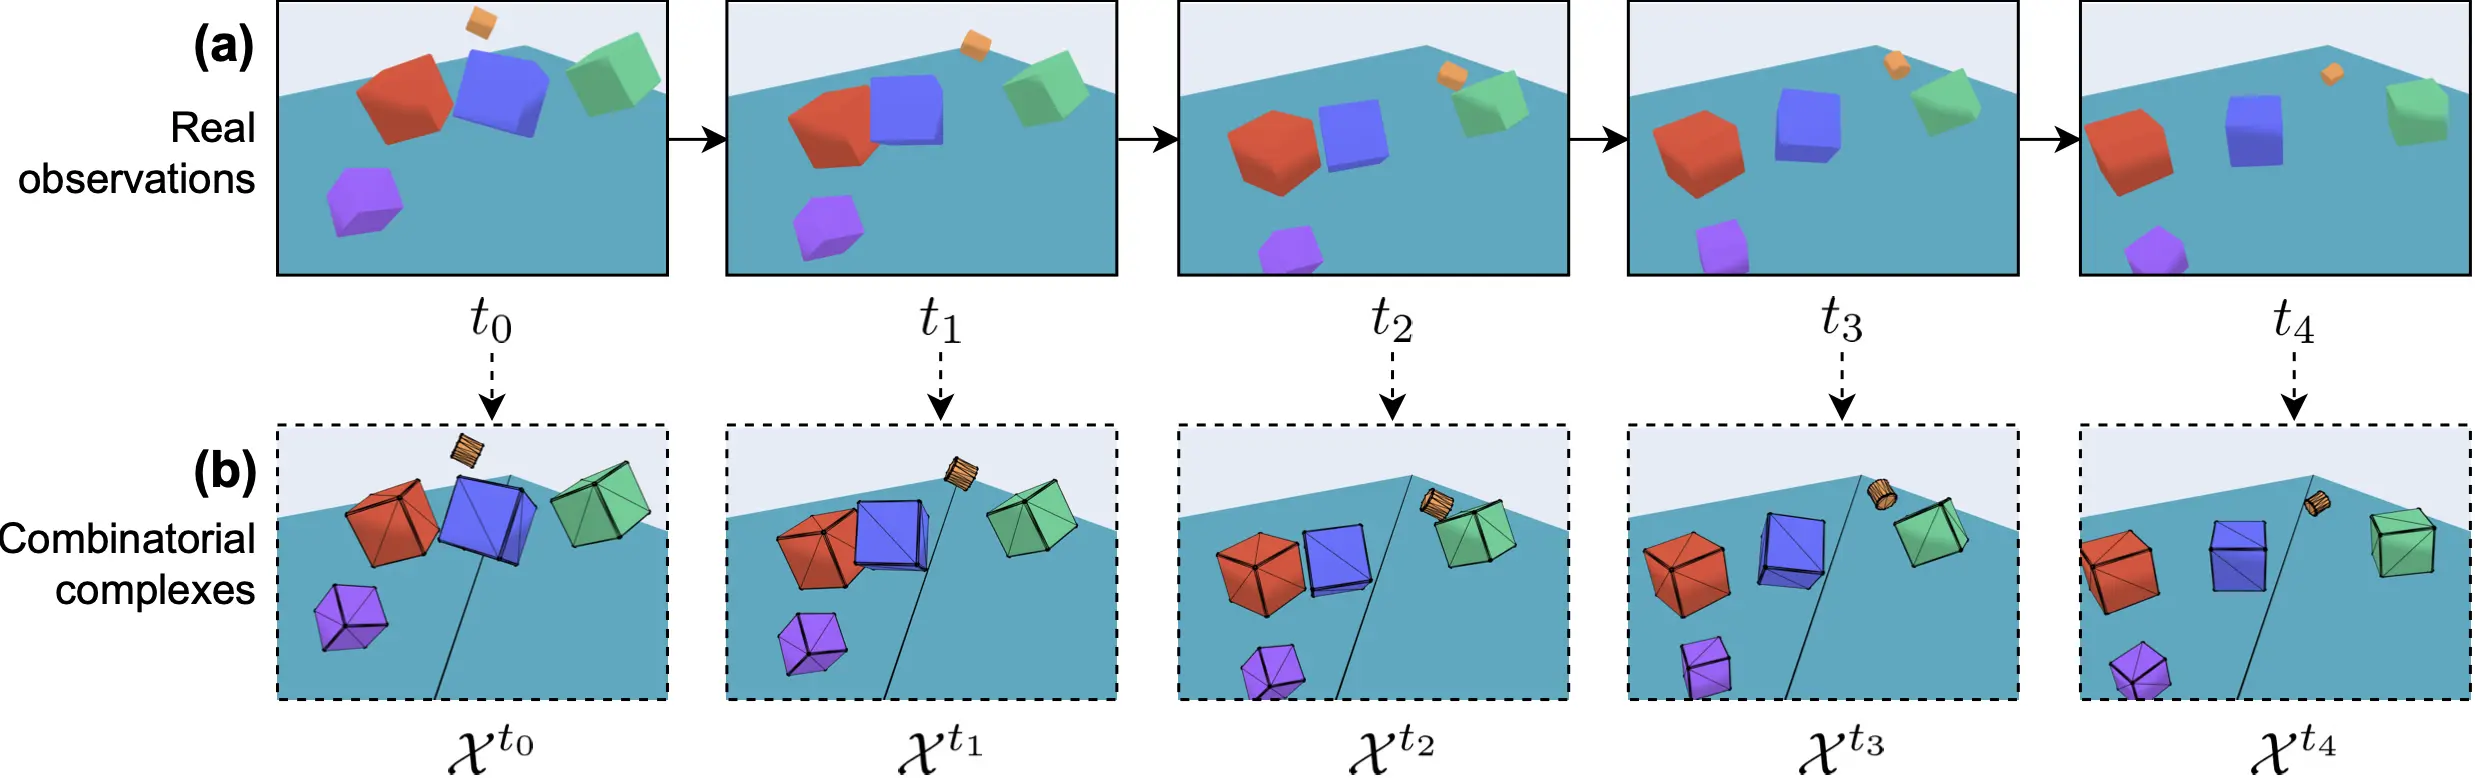
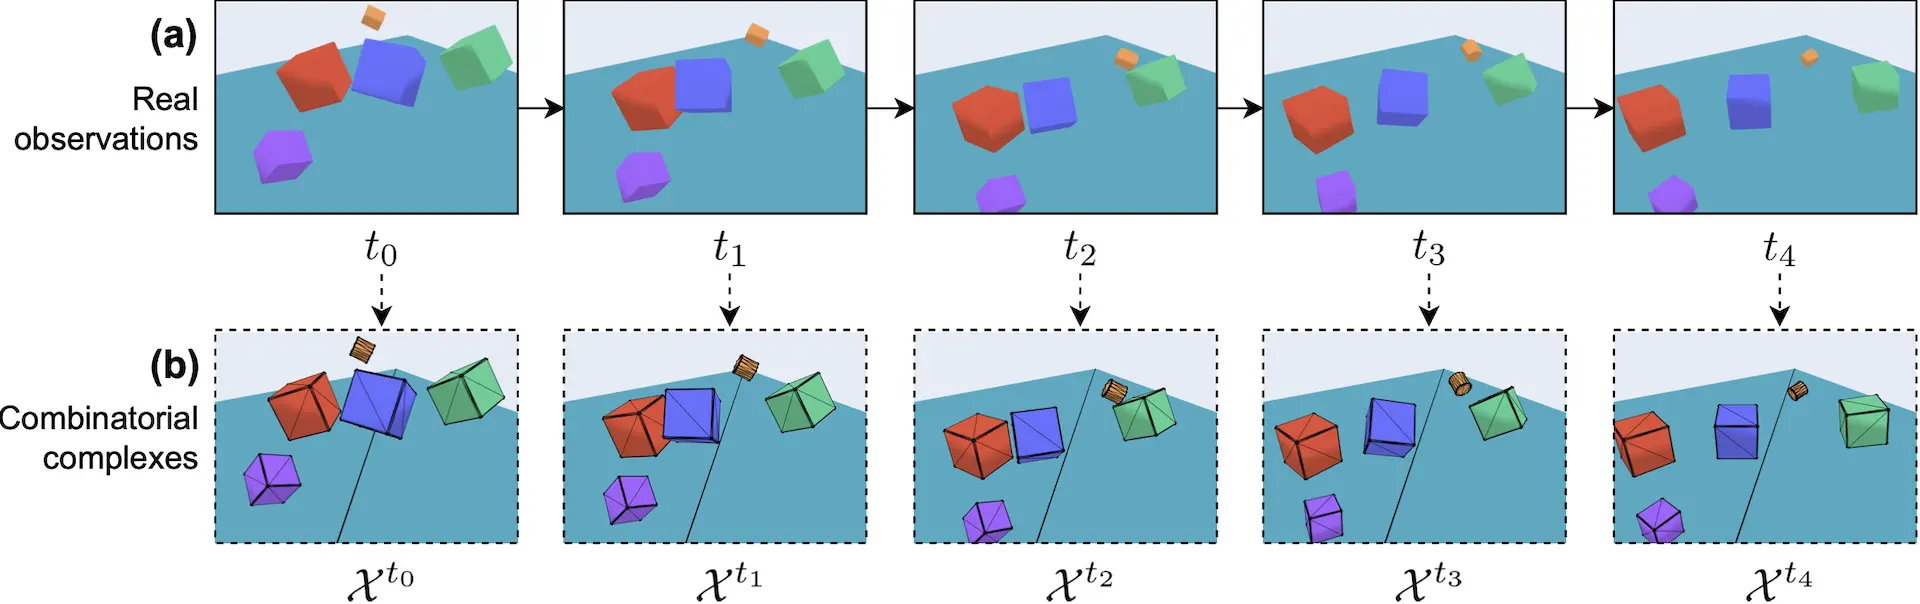
data: reduce dimensions of webp images

diff --git a/index.html b/index.html
@@ -272,7 +272,7 @@
               Translation and (<strong>b</strong>) orientation errors after a rollout horizon of 50 steps on all dynamic
               objects in the scene. Error bars indicate the mean and standard deviation across three independent random
               seeds.
-            </p>
+            </p><br>
           </div>
           <div class="item" style="margin: 0; padding: 0;">
             <!-- Your image here -->
@@ -283,7 +283,7 @@
               and B) trained on MOVi-spheres, MOVi-A, and MOVi-B respectively. Error bars indicate the mean and standard
               deviation across three independent random seeds. (<strong>c</strong>) Distribution of the collision
               velocities encountered by each model during training.
-            </h2>
+            </h2><br>
           </div>
         </div>
       </div>
